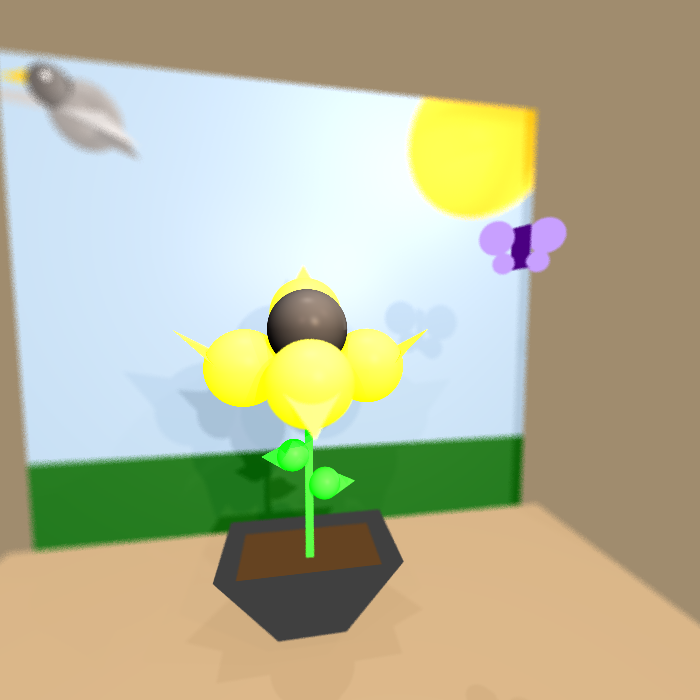
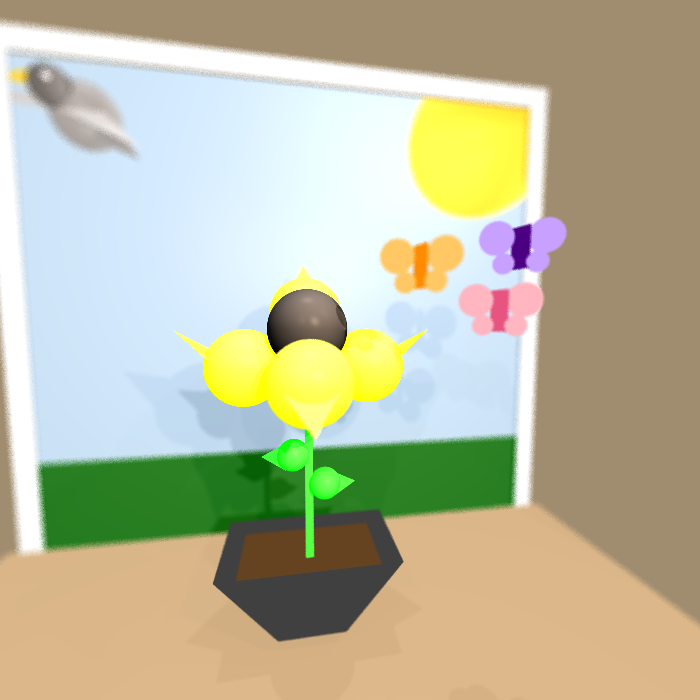
Fixing106

Changed region(s): [[0.0, 0.03, 0.81, 0.81], [0.54, 0.33, 0.78, 0.75], [0.48, 0.42, 0.57, 0.51]]

diff --git a/unittests/renderer/Mp2Tests.java b/unittests/renderer/Mp2Tests.java
@@ -107,7 +107,31 @@ class Mp2Tests {
                     new Point(24, -20, -29),
                     new Point(24, 22, -29))
                     .setEmission(new Color( 0,0,0))
-                    .setMaterial(new Material().setKd(0.4).setKs(0.4).setShininess(20).setKt(0.9).setKr(0.001)),
+                    .setMaterial(new Material().setKd(0.4).setKs(0.4).setShininess(20).setKt(0.9).setKr(0.01)),
+
+            //The frame of the window
+            //The Top of the window
+            new Polygon(new Point(-24, 22, -28.75),
+                    new Point(24, 22, -28.75),
+                    new Point(24, 24, -28.75),
+                    new Point(-24, 24, -28.75))
+                    .setEmission(new Color( 255, 255, 255)),
+
+            //The left side of the window
+            new Polygon(new Point(-23, 24, -28.75),
+                    new Point(-23, -20, -28.75),
+                    new Point(-25, -20, -28.75),
+                    new Point(-25, 24, -28.75))
+                    .setEmission(new Color( 255, 255, 255)),
+
+            //The right side of the window
+            new Polygon(new Point(23, 24, -28.75),
+                    new Point(23, -20, -28.75),
+                    new Point(25, -20, -28.75),
+                    new Point(25, 24, -28.75))
+                    .setEmission(new Color( 255, 255, 255)),
+
+             //The wall at the front side of the window
             //The Top of the window
             new Polygon(new Point(-32, 22, -29),
                     new Point(32, 22, -29),
@@ -132,6 +156,19 @@ class Mp2Tests {
                     new Point(24, -20, -29),
                     new Point(24, 22, -29))
                     .setEmission(new Color( 160, 140, 110)),
+
+            //the walls at the sides of the window
+            //The wall
+            new Polygon( new Point(30, 50, -29),
+                    new Point(30, 50, -5),
+                    new Point(30, -40, -5),
+                    new Point(30, -40, -29))
+                    .setEmission(new Color(160, 140, 110)),
+            new Polygon( new Point(-30, 50, -29),
+                    new Point(-30, 50, -5),
+                    new Point(-30, -40, -5),
+                    new Point(-30, -40, -29))
+                    .setEmission(new Color(160, 140, 110)),
             //The base
             new Polygon(new Point(-26, -20, 5),
                     new Point(26, -20, 5),
@@ -219,19 +256,8 @@ class Mp2Tests {
                     new Point(-40, -40, -37))
                     .setEmission(new Color(0, 100, 0)),
 
-            //The wall
-            new Polygon( new Point(30, 50, -29),
-                    new Point(30, 50, -5),
-                    new Point(30, -40, -5),
-                    new Point(30, -40, -29))
-                    .setEmission(new Color(160, 140, 110)),
-            new Polygon( new Point(-30, 50, -29),
-                    new Point(-30, 50, -5),
-                    new Point(-30, -40, -5),
-                    new Point(-30, -40, -29))
-                    .setEmission(new Color(160, 140, 110)),
 
-            //The butterfly
+            //The purple butterfly
             new Polygon( new Point(10, 5, -10),
                     new Point(9.7, 5, -11),
                     new Point(9.7, 3, -11),
@@ -244,7 +270,37 @@ class Mp2Tests {
             new Sphere(0.5,new Point(10.4, 3.3, -10))
                     .setEmission(new Color(200, 160, 255)),
             new Sphere( 0.5,new Point(9.3, 3.3, -11))
-                    .setEmission(new Color(200, 160, 255))
+                    .setEmission(new Color(200, 160, 255)),
+
+            //The orange butterfly
+             new Polygon( new Point(5, 4, -10),
+                    new Point(4.7, 4, -11),
+                    new Point(4.7, 2, -11),
+                    new Point(5, 2, -10))
+            .setEmission(new Color(255, 140, 0)),
+            new Sphere( 0.8,new Point(5.8, 3.5, -10))
+            .setEmission(new Color(255, 200, 100)),
+            new Sphere( 0.8,new Point(3.9, 3.5, -11))
+            .setEmission(new Color(255, 200, 100)),
+            new Sphere(0.5,new Point(5.4, 2.3, -10))
+            .setEmission(new Color(255, 200, 100)),
+            new Sphere( 0.5,new Point(4.3, 2.3, -11))
+            .setEmission(new Color(255, 200, 100)),
+
+            //The pink butterfly
+            new Polygon( new Point(9, 2, -10),
+                    new Point(8.7, 2, -11),
+                    new Point(8.7, 0, -11),
+                    new Point(9, 0, -10))
+            .setEmission(new Color(231, 84, 128)),
+            new Sphere( 0.8,new Point(9.8, 1.5, -10))
+            .setEmission(new Color(255, 182, 193)),
+            new Sphere( 0.8,new Point(7.9, 1.5, -11))
+            .setEmission(new Color(255, 182, 193)),
+            new Sphere(0.5,new Point(9.4, 0.3, -10))
+            .setEmission(new Color(255, 182, 193)),
+            new Sphere( 0.5,new Point(8.3, 0.3, -11))
+            .setEmission(new Color(255, 182, 193))
     );
 
     /**The light sources of the scene
